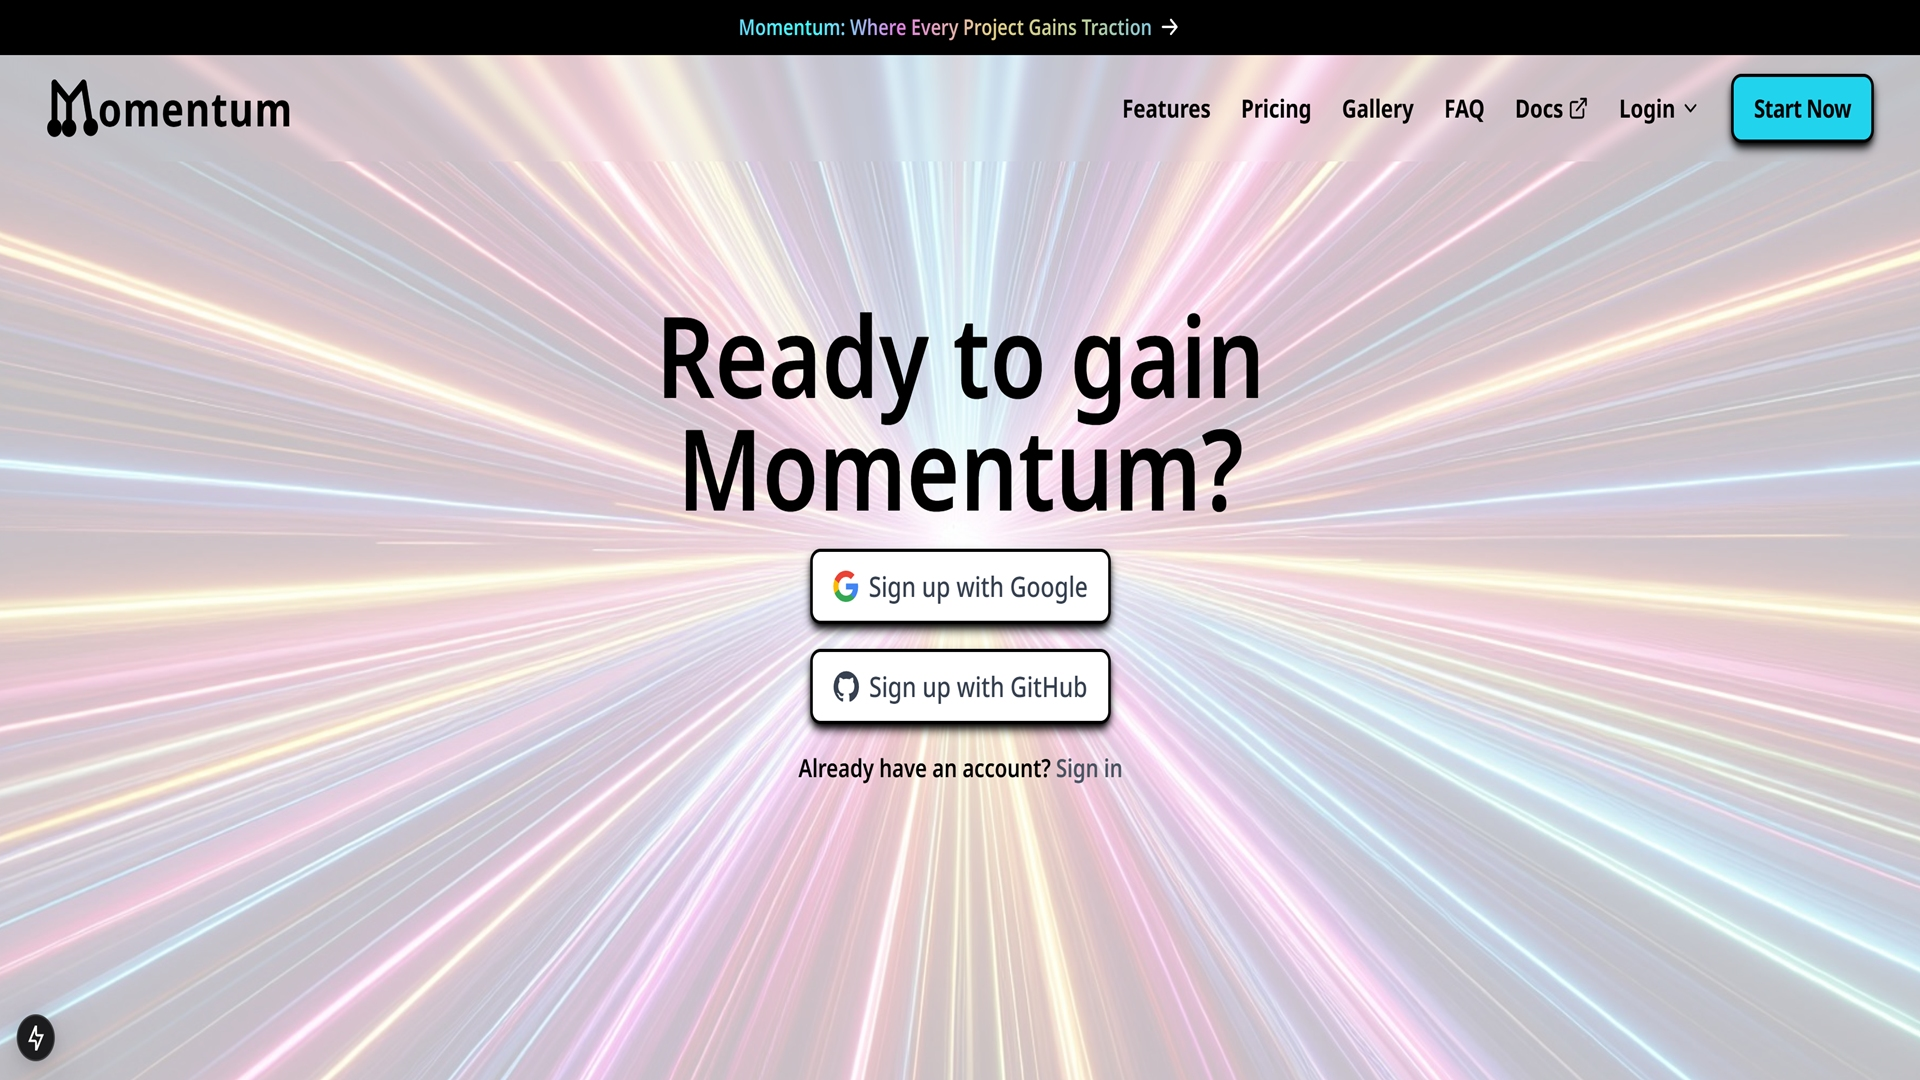
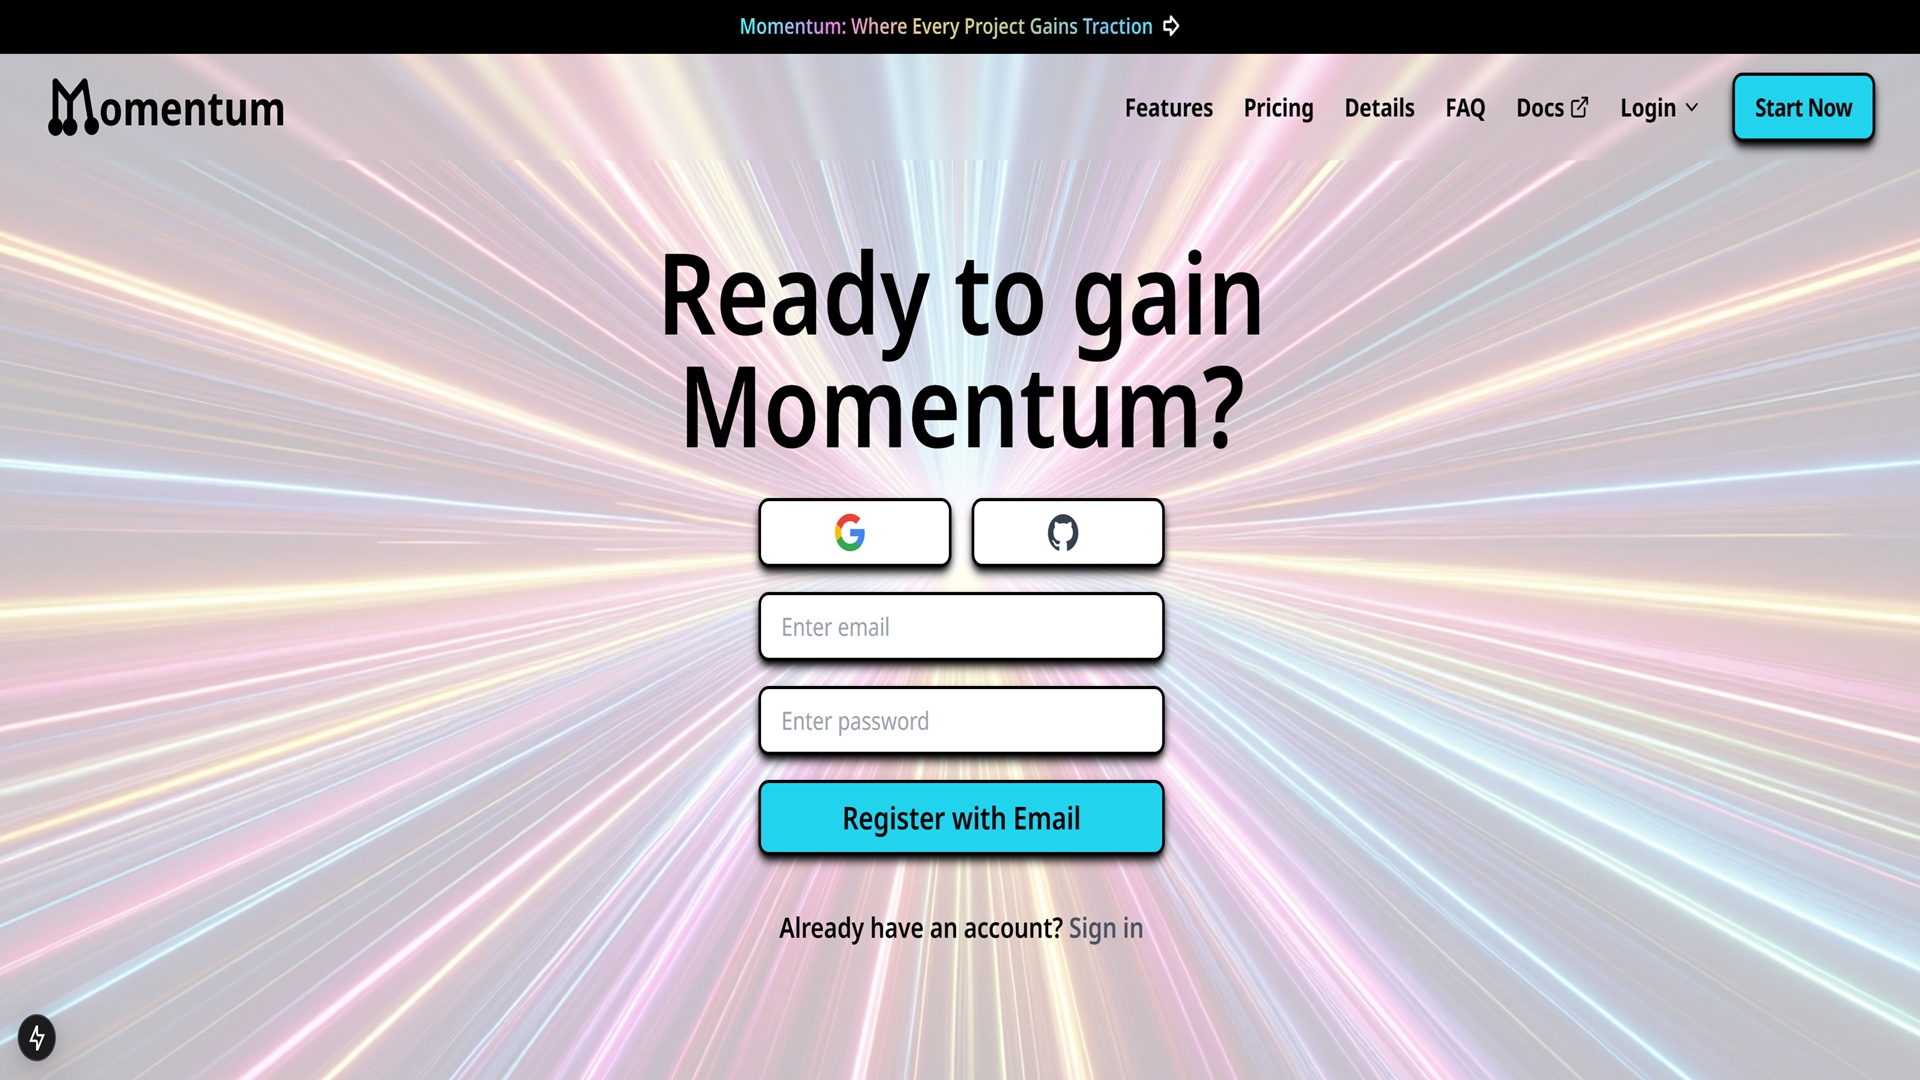
sign up with email

diff --git a/src/components/SignIn.tsx b/src/components/SignIn.tsx
@@ -1,16 +1,22 @@
 "use client";
 
-import { signInWithPopup, GithubAuthProvider } from "firebase/auth";
+import {
+  signInWithPopup,
+  createUserWithEmailAndPassword,
+  GithubAuthProvider,
+  signInWithEmailAndPassword,
+} from "firebase/auth";
 import { auth, provider as googleProvider, db } from "../../firebase";
 import { doc, setDoc, getDoc } from "firebase/firestore";
 import { useRouter } from "next/navigation";
 import { useState, useEffect } from "react";
-import { error } from "console";
 
 const SignIn = () => {
   const [user, setUser] = useState<any>(null);
   const router = useRouter();
   const [error, setError] = useState<string | null>(null);
+  const [email, setEmail] = useState<string>("");
+  const [password, setPassword] = useState<string>("");
 
   // Monitor auth state
   useEffect(() => {
@@ -53,7 +59,7 @@ const SignIn = () => {
     return () => unsubscribe();
   }, [router]);
 
-  // Handle sign-in with a specific provider
+  // Handle sign-in or registration
   const handleSignIn = async (provider: any) => {
     try {
       await signInWithPopup(auth, provider);
@@ -63,42 +69,113 @@ const SignIn = () => {
     }
   };
 
+  const handleEmailSignUp = async () => {
+    try {
+      const userCredential = await createUserWithEmailAndPassword(
+        auth,
+        email,
+        password
+      );
+      const user = userCredential.user;
+
+      // Firestore user setup
+      const userDocRef = doc(db, "users", user.uid);
+      const userData = {
+        uid: user.uid,
+        userId: user.uid,
+        name: user.displayName || "Anonymous",
+        email: user.email,
+        photoURL: null,
+        isPremium: false,
+        isSubscribed: true,
+        isAdmin: false,
+        customers: [],
+        stripeAccountId: "",
+        stripeConnected: false,
+        invoicesPerPage: 8,
+        projectsPerPage: 10,
+        customersPerPage: 7,
+        milestonesPerPage: 5,
+        createdAt: new Date().toISOString(),
+      };
+      await setDoc(userDocRef, userData);
+
+      router.push(`/Dashboard/${user.uid}`);
+    } catch (error: any) {
+      setError(error.message);
+    }
+  };
+
+  const handleEmailSignIn = async () => {
+    try {
+      await signInWithEmailAndPassword(auth, email, password);
+      router.push("/Dashboard");
+    } catch (error: any) {
+      setError(error.message);
+    }
+  };
+
   return (
-    <div className="flex flex-col gap-4">
-      {/* Google Sign-In Button */}
+    <div className="flex flex-col gap-4 w-full mx-auto max-w-xs">
       {error && (
         <p className="text-red-500 max-w-sm text-center p-4 bg-white rounded-lg border-2 border-black">
           {error}
         </p>
       )}
-      <button
-        type="button"
-        className="flex items-center justify-center w-full max-w-sm px-4 py-2 text-lg md:text-xl font-medium text-gray-700 bg-white border-2 border-black rounded-lg shadow-md shadow-black hover:shadow-lg hover:shadow-black focus:outline-none duration-300 focus:ring-2 focus:ring-offset-2 focus:ring-blue-500"
-        onClick={() => handleSignIn(googleProvider)}
-      >
-        <img
-          src="https://www.gstatic.com/firebasejs/ui/2.0.0/images/auth/google.svg"
-          alt="Google Logo"
-          className="w-5 h-5 sm:w-6 sm:h-6 mr-2"
-        />
-        Sign up with Google
-      </button>
-
-      {/* GitHub Sign-In Button */}
-      <button
-        type="button"
-        className="flex items-center justify-center w-full max-w-sm px-4 py-2 text-lg md:text-xl font-medium text-gray-700 bg-white border-2 border-black rounded-lg shadow-md shadow-black hover:shadow-lg hover:shadow-black focus:outline-none duration-300 focus:ring-2 focus:ring-offset-2 focus:ring-blue-500"
-        onClick={() => handleSignIn(new GithubAuthProvider())}
-      >
-        <svg
-          xmlns="http://www.w3.org/2000/svg"
-          fill="currentColor"
-          viewBox="0 0 24 24"
-          className="w-5 h-5 sm:w-6 sm:h-6 mr-2"
+      <div className="flex flex-row gap-4">
+        {/* Google Sign-In Button */}
+        <button
+          type="button"
+          className="flex items-center justify-center w-full max-w-sm px-4 py-2 text-lg md:text-xl font-medium text-gray-700 bg-white border-2 border-black rounded-lg shadow-md shadow-black hover:shadow-lg hover:shadow-black focus:outline-none duration-300 focus:ring-2 focus:ring-offset-2 focus:ring-blue-500"
+          onClick={() => handleSignIn(googleProvider)}
         >
-          <path d="M12 .297c-6.63 0-12 5.373-12 12 0 5.302 3.438 9.8 8.205 11.385.6.113.82-.258.82-.577v-2.234c-3.338.726-4.033-1.416-4.033-1.416-.546-1.387-1.333-1.757-1.333-1.757-1.089-.744.083-.729.083-.729 1.205.084 1.838 1.236 1.838 1.236 1.07 1.835 2.807 1.305 3.492.998.108-.775.419-1.305.762-1.605-2.665-.305-5.467-1.332-5.467-5.93 0-1.31.467-2.38 1.235-3.22-.123-.303-.535-1.523.117-3.176 0 0 1.008-.322 3.3 1.23a11.49 11.49 0 013.003-.404c1.02.005 2.045.138 3.003.404 2.29-1.553 3.297-1.23 3.297-1.23.653 1.653.241 2.873.118 3.176.77.84 1.233 1.91 1.233 3.22 0 4.61-2.807 5.625-5.478 5.92.43.372.823 1.102.823 2.222v3.293c0 .322.216.694.824.576C20.565 22.092 24 17.592 24 12.297c0-6.627-5.373-12-12-12" />
-        </svg>
-        Sign up with GitHub
+          <img
+            src="https://www.gstatic.com/firebasejs/ui/2.0.0/images/auth/google.svg"
+            alt="Google Logo"
+            className="w-5 h-5 sm:w-6 sm:h-6 mr-2"
+          />
+        </button>
+
+        {/* GitHub Sign-In Button */}
+        <button
+          id="github-button"
+          aria-label="Sign in with GitHub"
+          type="button"
+          className="flex items-center justify-center w-full max-w-sm px-4 py-2 text-lg md:text-xl font-medium text-gray-700 bg-white border-2 border-black rounded-lg shadow-md shadow-black hover:shadow-lg hover:shadow-black focus:outline-none duration-300 focus:ring-2 focus:ring-offset-2 focus:ring-blue-500"
+          onClick={() => handleSignIn(new GithubAuthProvider())}
+        >
+          <svg
+            xmlns="http://www.w3.org/2000/svg"
+            fill="currentColor"
+            viewBox="0 0 24 24"
+            className="w-5 h-5 sm:w-6 sm:h-6 mr-2"
+          >
+            <path d="M12 .297c-6.63 0-12 5.373-12 12 0 5.302 3.438 9.8 8.205 11.385.6.113.82-.258.82-.577v-2.234c-3.338.726-4.033-1.416-4.033-1.416-.546-1.387-1.333-1.757-1.333-1.757-1.089-.744.083-.729.083-.729 1.205.084 1.838 1.236 1.838 1.236 1.07 1.835 2.807 1.305 3.492.998.108-.775.419-1.305.762-1.605-2.665-.305-5.467-1.332-5.467-5.93 0-1.31.467-2.38 1.235-3.22-.123-.303-.535-1.523.117-3.176 0 0 1.008-.322 3.3 1.23a11.49 11.49 0 013.003-.404c1.02.005 2.045.138 3.003.404 2.29-1.553 3.297-1.23 3.297-1.23.653 1.653.241 2.873.118 3.176.77.84 1.233 1.91 1.233 3.22 0 4.61-2.807 5.625-5.478 5.92.43.372.823 1.102.823 2.222v3.293c0 .322.216.694.824.576C20.565 22.092 24 17.592 24 12.297c0-6.627-5.373-12-12-12" />
+          </svg>
+        </button>
+      </div>
+
+      {/* Email/Password Registration */}
+      <input
+        type="email"
+        placeholder="Enter email"
+        value={email}
+        onChange={(e) => setEmail(e.target.value)}
+        className="w-full max-w-sm px-4 py-2 border-2 border-black shadow-md shadow-black rounded-lg"
+      />
+      <input
+        type="password"
+        placeholder="Enter password"
+        value={password}
+        onChange={(e) => setPassword(e.target.value)}
+        className="w-full max-w-sm px-4 py-2 border-2 border-black shadow-md shadow-black rounded-lg"
+      />
+      <button
+        type="button"
+        className="w-full max-w-sm px-4 py-2 text-lg md:text-xl font-semibold text-black bg-confirm border-2 border-black rounded-lg shadow-md shadow-black hover:shadow-lg hover:shadow-black duration-300"
+        onClick={handleEmailSignUp}
+      >
+        Register with Email
       </button>
     </div>
   );

diff --git a/src/components/user/SignIn.tsx b/src/components/user/SignIn.tsx
@@ -1,18 +1,21 @@
 "use client";
 
-import { signInWithPopup, GithubAuthProvider } from "firebase/auth";
+import {
+  signInWithPopup,
+  signInWithEmailAndPassword,
+  GithubAuthProvider,
+} from "firebase/auth";
 import { auth, provider as googleProvider, db } from "../../../firebase";
 import { doc, setDoc, getDoc } from "firebase/firestore";
 import { useRouter } from "next/navigation";
 import { useState, useEffect } from "react";
-import { toast } from "react-toastify";
-
-const githubProvider = new GithubAuthProvider(); // Reuse the provider instance
 
 const SignIn = () => {
   const [user, setUser] = useState<any>(null);
   const router = useRouter();
   const [error, setError] = useState<string | null>(null);
+  const [email, setEmail] = useState<string>("");
+  const [password, setPassword] = useState<string>("");
 
   // Monitor auth state
   useEffect(() => {
@@ -30,8 +33,8 @@ const SignIn = () => {
             uid: user.uid,
             userId: user.uid,
             name: user.displayName || "Anonymous",
-            email: user.email || null,
-            photoURL: user.photoURL || null,
+            email: user.email,
+            photoURL: user.photoURL,
             isPremium: false,
             isSubscribed: true,
             isAdmin: false,
@@ -46,6 +49,7 @@ const SignIn = () => {
           };
           await setDoc(userDocRef, userData);
         }
+
         // Redirect to the user's dashboard
         router.push(`/Dashboard/${user.uid}`);
       }
@@ -54,43 +58,119 @@ const SignIn = () => {
     return () => unsubscribe();
   }, [router]);
 
-  // Handle sign-in for different providers
+  // Handle sign-in or registration
   const handleSignIn = async (provider: any) => {
     try {
       await signInWithPopup(auth, provider);
       router.push("/Dashboard");
     } catch (error: any) {
-      toast.error(error.message);
+      setError(error.message);
+    }
+  };
+
+  const handleEmailSignIn = async () => {
+    try {
+      const userCredential = await signInWithEmailAndPassword(
+        auth,
+        email,
+        password
+      );
+      const user = userCredential.user;
+
+      // Firestore user setup
+      const userDocRef = doc(db, "users", user.uid);
+      const userDocSnapshot = await getDoc(userDocRef);
+
+      if (!userDocSnapshot.exists()) {
+        // Create the document if it doesn't exist
+        const userData = {
+          uid: user.uid,
+          userId: user.uid,
+          name: user.displayName || "Anonymous",
+          email: user.email,
+          photoURL: null,
+          isPremium: false,
+          isSubscribed: true,
+          isAdmin: false,
+          customers: [],
+          stripeAccountId: "",
+          stripeConnected: false,
+          invoicesPerPage: 8,
+          projectsPerPage: 10,
+          customersPerPage: 7,
+          milestonesPerPage: 5,
+          createdAt: new Date().toISOString(),
+        };
+        await setDoc(userDocRef, userData);
+      }
+
+      router.push(`/Dashboard/${user.uid}`);
+    } catch (error: any) {
       setError(error.message);
     }
   };
 
   return (
-    <div className="space-y-4">
-      <button
-        type="button"
-        className="flex border-2 border-black items-center justify-center w-full max-w-sm px-4 py-2 text-lg md:text-xl font-medium text-gray-700 shadow-md shadow-black bg-white rounded-lg hover:shadow-lg hover:shadow-black focus:outline-none duration-300 focus:ring-2 focus:ring-offset-2 focus:ring-blue-500"
-        onClick={() => handleSignIn(googleProvider)}
-      >
-        <img
-          src="https://www.gstatic.com/firebasejs/ui/2.0.0/images/auth/google.svg"
-          alt="Google Logo"
-          className="w-5 h-5 sm:w-6 sm:h-6 mr-2"
-        />
-        Sign in with Google
-      </button>
+    <div className="flex flex-col gap-4 w-full mx-auto max-w-xs">
+      {error && (
+        <p className="text-red-500 max-w-sm text-center p-4 bg-white rounded-lg border-2 border-black">
+          {error}
+        </p>
+      )}
+      <div className="flex flex-row gap-4">
+        {/* Google Sign-In Button */}
+        <button
+          type="button"
+          className="flex items-center justify-center w-full max-w-sm px-4 py-2 text-lg md:text-xl font-medium text-gray-700 bg-white border-2 border-black rounded-lg shadow-md shadow-black hover:shadow-lg hover:shadow-black focus:outline-none duration-300 focus:ring-2 focus:ring-offset-2 focus:ring-blue-500"
+          onClick={() => handleSignIn(googleProvider)}
+        >
+          <img
+            src="https://www.gstatic.com/firebasejs/ui/2.0.0/images/auth/google.svg"
+            alt="Google Logo"
+            className="w-5 h-5 sm:w-6 sm:h-6 mr-2"
+          />
+        </button>
 
+        {/* GitHub Sign-In Button */}
+        <button
+          id="github-button"
+          aria-label="Sign in with GitHub"
+          type="button"
+          className="flex items-center justify-center w-full max-w-sm px-4 py-2 text-lg md:text-xl font-medium text-gray-700 bg-white border-2 border-black rounded-lg shadow-md shadow-black hover:shadow-lg hover:shadow-black focus:outline-none duration-300 focus:ring-2 focus:ring-offset-2 focus:ring-blue-500"
+          onClick={() => handleSignIn(new GithubAuthProvider())}
+        >
+          <svg
+            xmlns="http://www.w3.org/2000/svg"
+            fill="currentColor"
+            viewBox="0 0 24 24"
+            className="w-5 h-5 sm:w-6 sm:h-6 mr-2"
+          >
+            <path d="M12 .297c-6.63 0-12 5.373-12 12 0 5.302 3.438 9.8 8.205 11.385.6.113.82-.258.82-.577v-2.234c-3.338.726-4.033-1.416-4.033-1.416-.546-1.387-1.333-1.757-1.333-1.757-1.089-.744.083-.729.083-.729 1.205.084 1.838 1.236 1.838 1.236 1.07 1.835 2.807 1.305 3.492.998.108-.775.419-1.305.762-1.605-2.665-.305-5.467-1.332-5.467-5.93 0-1.31.467-2.38 1.235-3.22-.123-.303-.535-1.523.117-3.176 0 0 1.008-.322 3.3 1.23a11.49 11.49 0 013.003-.404c1.02.005 2.045.138 3.003.404 2.29-1.553 3.297-1.23 3.297-1.23.653 1.653.241 2.873.118 3.176.77.84 1.233 1.91 1.233 3.22 0 4.61-2.807 5.625-5.478 5.92.43.372.823 1.102.823 2.222v3.293c0 .322.216.694.824.576C20.565 22.092 24 17.592 24 12.297c0-6.627-5.373-12-12-12" />
+          </svg>
+        </button>
+      </div>
+
+      {/* Email/Password Sign-In */}
+      <input
+        type="email"
+        placeholder="Enter email"
+        value={email}
+        onChange={(e) => setEmail(e.target.value)}
+        className="w-full max-w-sm px-4 py-2 border-2 border-black shadow-md shadow-black rounded-lg"
+      />
+      <input
+        type="password"
+        placeholder="Enter password"
+        value={password}
+        onChange={(e) => setPassword(e.target.value)}
+        className="w-full max-w-sm px-4 py-2 border-2 border-black shadow-md shadow-black rounded-lg"
+      />
       <button
         type="button"
-        className="flex items-center justify-center w-full max-w-sm px-4 py-2 text-lg md:text-xl shadow-md shadow-black font-medium text-gray-700 bg-white   border-2 border-black rounded-lg hover:shadow-lg hover:shadow-black focus:outline-none duration-300 focus:ring-2 focus:ring-offset-2 focus:ring-blue-500"
-        onClick={() => handleSignIn(githubProvider)}
+        className="w-full max-w-sm px-4 py-2 text-lg md:text-xl font-semibold text-black bg-confirm border-2 border-black rounded-lg shadow-md shadow-black hover:shadow-lg hover:shadow-black duration-300"
+        onClick={handleEmailSignIn}
       >
-        <img
-          src="https://github.githubassets.com/images/modules/logos_page/GitHub-Mark.png"
-          alt="GitHub Logo"
-          className="w-5 h-5 sm:w-6 sm:h-6 mr-2"
-        />
-        Sign in with GitHub
+        Sign In with Email
       </button>
     </div>
   );

diff --git a/src/app/Signup/page.jsx b/src/app/Signup/page.jsx
@@ -22,13 +22,13 @@ export default function Page() {
         style={{ backgroundImage: `url("/lightspeed2.jpg")` }}
         className="flex bg-white justify-center items-center bg-cover bg-center min-h-screen h-full  flex-col text-center gap-5 w-full mx-auto"
       >
-        <div className="relative z-10 h-full mx-auto justify-center items-center flex flex-col gap-4">
+        <div className="relative z-10 h-full mx-auto justify-center items-center flex flex-col gap-4 mt-10 lg:mt-16">
           <h1 className="text-4xl px-2 md:px-0 max-w-xl mx-auto sm:text-5xl md:text-6xl lg:text-7xl font-semibold text-black mb-2">
             Ready to gain {siteMetadata.title}?
           </h1>
           <SignIn />
           <div>
-            <p className="text-base font-semibold mt-4">
+            <p className="text-lg font-semibold mt-4">
               Already have an account?{" "}
               <Link className="hover:underline text-gray-600" href="/Signin">
                 Sign in

diff --git a/src/app/Signin/page.jsx b/src/app/Signin/page.jsx
@@ -22,7 +22,7 @@ export default function Page() {
         style={{ backgroundImage: `url("/lightspeed2.jpg")` }}
         className="flex bg-white justify-center items-center bg-cover bg-center min-h-screen h-full  flex-col text-center gap-5 w-full mx-auto"
       >
-        <div className="relative z-10 h-full mx-auto justify-center items-center flex flex-col gap-4">
+        <div className="relative mt-10 lg:mt-16 z-10 h-full mx-auto justify-center items-center flex flex-col gap-4">
           <h1 className="text-4xl px-2 md:px-0 max-w-xl mx-auto sm:text-5xl md:text-6xl lg:text-7xl font-semibold text-black mb-2">
             Keep up that {siteMetadata.title}!
           </h1>
